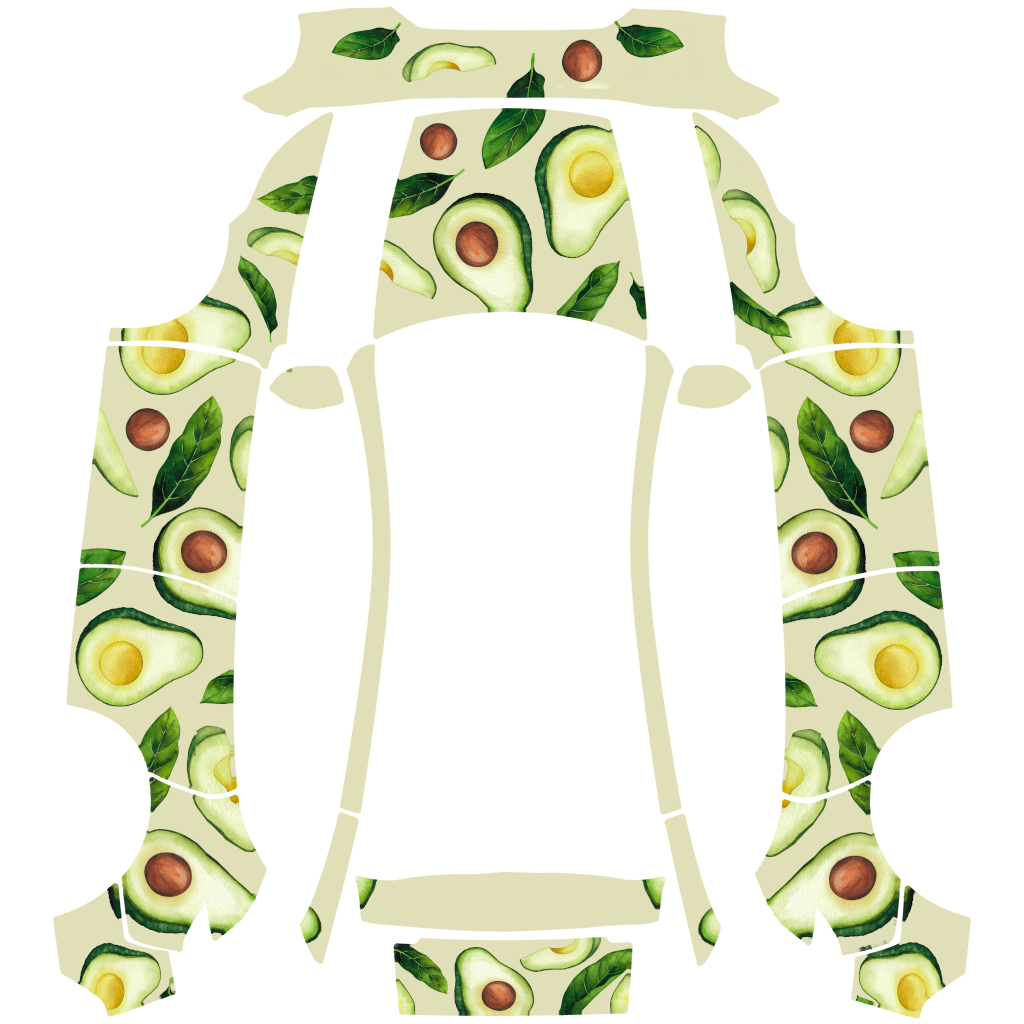
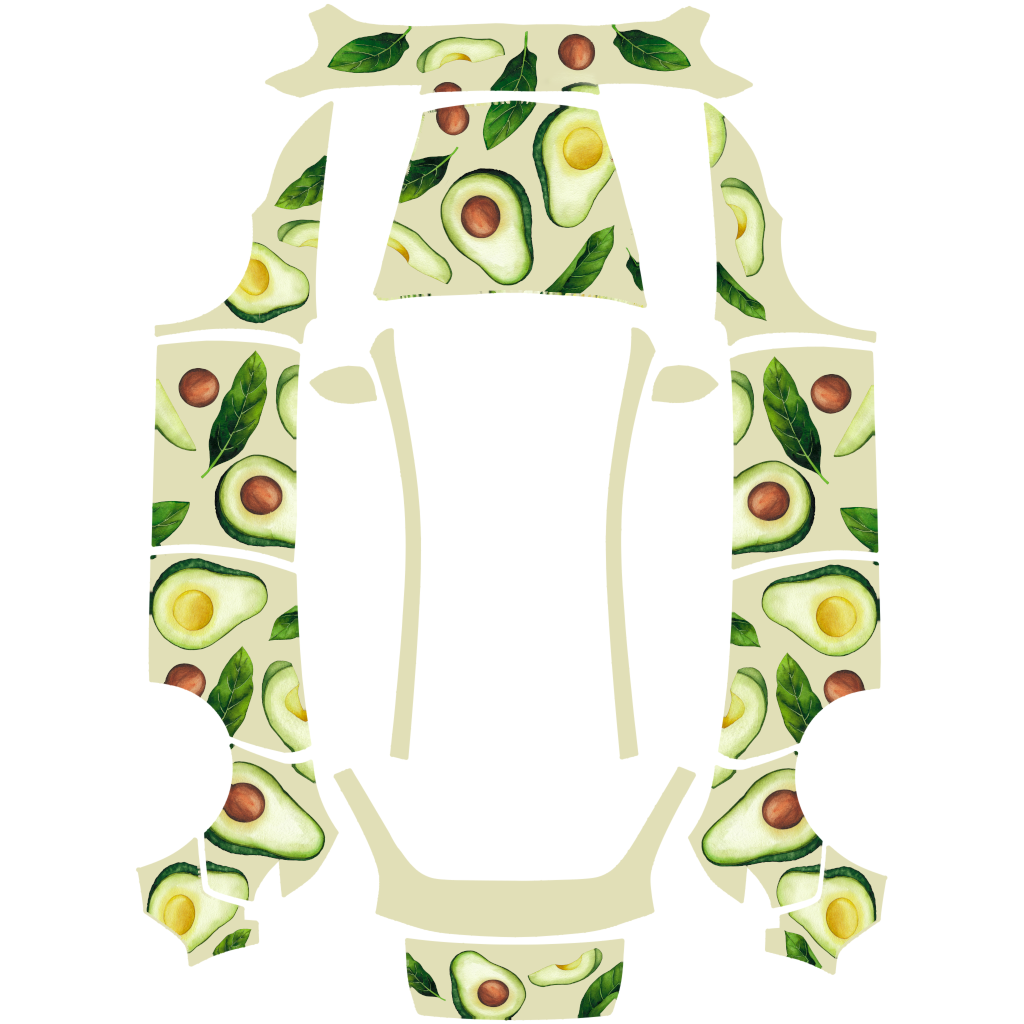
update(wraps): synchronize wrap PNGs and clarify UV handling in README
- Updated the README to reflect the correct source for model Y wraps, changing from `modely-2025-premium` to `modely-2025-base`.
- Added important notes regarding UV layout differences across model trims to prevent misalignment issues.
- Synced 20 PNG files for the model Y wraps, ensuring consistency with the updated source.
- Enhanced comments in the README for better understanding of wrap application and UV mapping implications.

diff --git a/src/TeslaHub.Web/src/components/VehicleTopView3D.tsx b/src/TeslaHub.Web/src/components/VehicleTopView3D.tsx
@@ -118,13 +118,23 @@ const MAP_FRAGMENT_REPLACE = `#ifdef USE_MAP
 	diffuseColor.rgb = mix( diffuseColor.rgb, wrapSample.rgb * wrapBrightness, wrapSample.a );
 #endif`;
 
+// Tesla pushes roughness all the way to 0.9 + metallic to 0 in opaque_skybox,
+// but they ALSO add an `EMISSION += skytxt * v_up` term that re-injects
+// skybox brightness into the matte wrap so it doesn't look dead. three.js
+// MeshStandardMaterial already gives us PBR environment lighting via the
+// scene env map, but the headroom is smaller than Tesla's HDR pipeline.
+// We compromise by mixing roughness only to 0.55 (satin paint, not chalk)
+// and metallic to 0.15 (keeps a slight metallic-flake highlight).
+const WRAP_ROUGHNESS_TARGET = 0.55;
+const WRAP_METALNESS_TARGET = 0.15;
+
 const ROUGHNESS_FRAGMENT_REPLACE = `float roughnessFactor = roughness;
 #ifdef USE_ROUGHNESSMAP
 	vec4 texelRoughness = texture2D( roughnessMap, vRoughnessMapUv );
 	roughnessFactor *= texelRoughness.g;
 #endif
 #ifdef USE_MAP
-	roughnessFactor = mix( roughnessFactor, 0.9, texture2D( map, vMapUv ).a );
+	roughnessFactor = mix( roughnessFactor, ${WRAP_ROUGHNESS_TARGET.toFixed(2)}, texture2D( map, vMapUv ).a );
 #endif`;
 
 const METALNESS_FRAGMENT_REPLACE = `float metalnessFactor = metalness;
@@ -133,7 +143,7 @@ const METALNESS_FRAGMENT_REPLACE = `float metalnessFactor = metalness;
 	metalnessFactor *= texelMetalness.b;
 #endif
 #ifdef USE_MAP
-	metalnessFactor = mix( metalnessFactor, 0.0, texture2D( map, vMapUv ).a );
+	metalnessFactor = mix( metalnessFactor, ${WRAP_METALNESS_TARGET.toFixed(2)}, texture2D( map, vMapUv ).a );
 #endif`;
 
 function meshHasWrapUv(geometry: THREE.BufferGeometry | undefined): boolean {

diff --git a/src/TeslaHub.Web/public/wraps/README.md b/src/TeslaHub.Web/public/wraps/README.md
@@ -10,8 +10,16 @@ Tesla officiels** gallery.
 ```
 public/wraps/
 ├── m3/   ← 20 PNGs cloned from custom-wraps/model3-2024-base/example
-└── my/   ← 20 PNGs cloned from custom-wraps/modely-2025-premium/example
+└── my/   ← 20 PNGs cloned from custom-wraps/modely-2025-base/example
 ```
+
+**IMPORTANT — match the GLB exactly :** Tesla ships a DIFFERENT UV1
+layout for every trim of the Y (`modely-2025-base`,
+`modely-2025-performance`, `modely-2025-premium`, `modely-l`). Our
+bundled `BayberryE41.glb` is the **Y Juniper base 2025** export, so the
+UV1 islands match `modely-2025-base` ONLY. Pulling examples from
+`modely-2025-premium` (or any other trim) produces a wrap that decals
+on the wrong panels — the bonnet ends up on the doors, etc.
 
 Each PNG carries the SAME file name across the two folders (e.g.
 `Acid_Drip.png`), but Tesla maps body UVs differently per model so
@@ -33,8 +41,8 @@ When `teslamotors/custom-wraps` ships new examples, sync them:
 # clone or pull custom-wraps somewhere, then:
 $src = 'D:\GIT-Local\custom-wraps'
 $dst = 'src\TeslaHub.Web\public\wraps'
-Copy-Item "$src\model3-2024-base\example\*.png"       "$dst\m3\" -Force
-Copy-Item "$src\modely-2025-premium\example\*.png"    "$dst\my\" -Force
+Copy-Item "$src\model3-2024-base\example\*.png"  "$dst\m3\" -Force
+Copy-Item "$src\modely-2025-base\example\*.png"  "$dst\my\" -Force
 ```
 
 If file names change, mirror the new list in `TESLA_WRAP_FILES`
